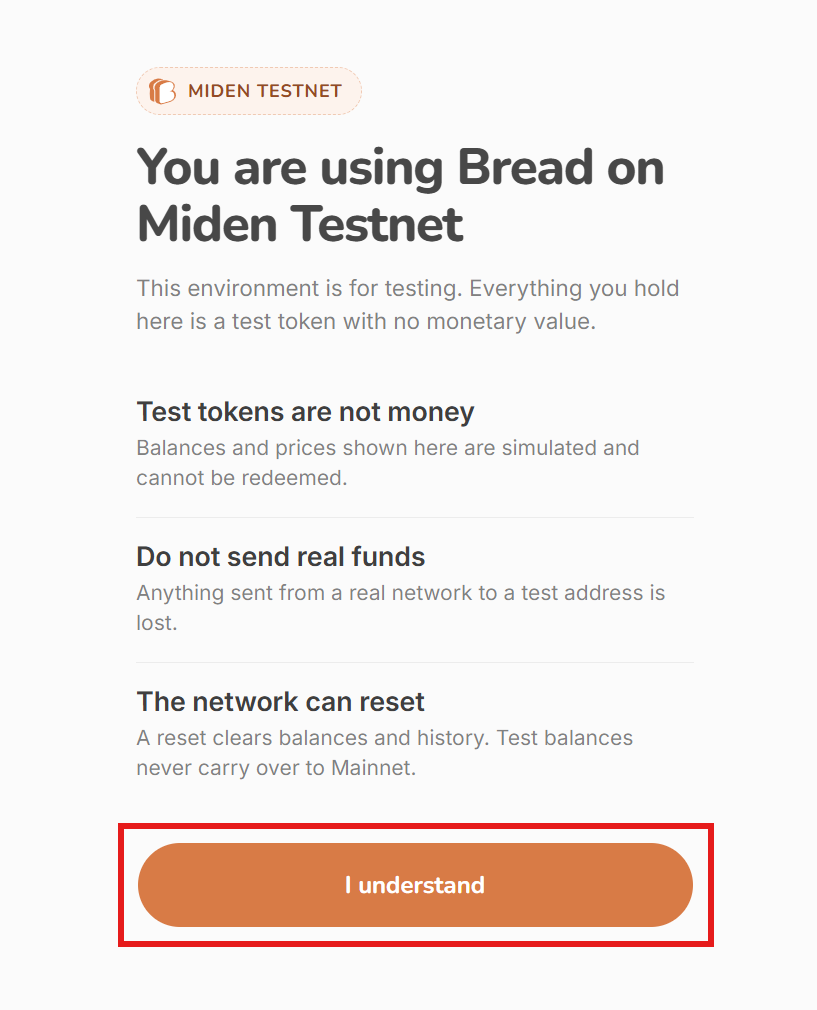
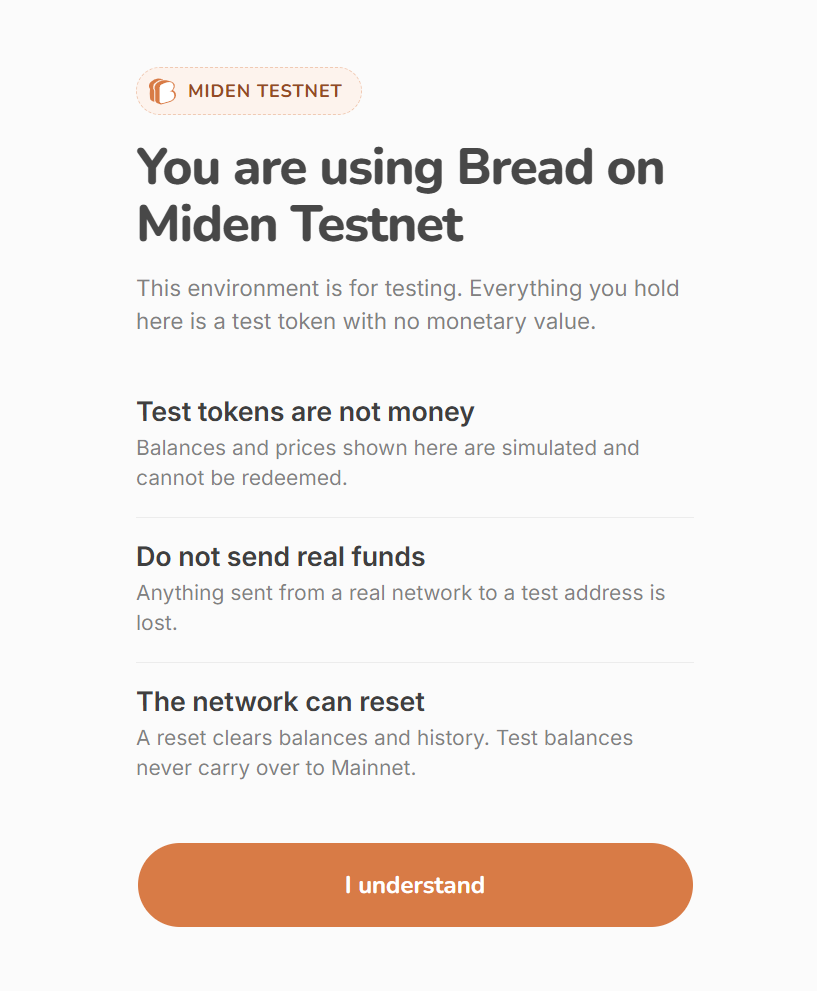
content: onboarding screenshots without red boxes
Ivan, 2026-09-17: red boxes are for the Chrome install screenshots only.
The boxes drawn on the five create-wallet captures were added without
asking and looked messy. Each file is now Ivan's original, with only the
empty space below its content cropped to meet the height rule; every
remaining pixel matches the file as delivered. Their alt text no longer
says a button is highlighted (approved by Ivan). The capture sheet
records the rule.

diff --git a/src/help-center/content.ts b/src/help-center/content.ts
@@ -161,11 +161,11 @@ export const SCREENSHOT_SIZES: Readonly<Record<string, ScreenshotSize>> = {
   'E01-install-web-store.png': [1783, 363],
   'E01a-install-add-extension.png': [870, 486, 'narrow'],
   'E02-install-pin.png': [616, 300, 'narrow'],
-  'E03-create-get-started.png': [820, 902, 'narrow'],
-  'E04-create-testnet-notice.png': [817, 1010, 'narrow'],
-  'E05-create-password.png': [824, 878, 'narrow'],
-  'E06-create-guardian.png': [819, 972, 'narrow'],
-  'E06a-create-wallet-ready.png': [821, 601, 'narrow']
+  'E03-create-get-started.png': [820, 903, 'narrow'],
+  'E04-create-testnet-notice.png': [817, 991, 'narrow'],
+  'E05-create-password.png': [824, 879, 'narrow'],
+  'E06-create-guardian.png': [819, 953, 'narrow'],
+  'E06a-create-wallet-ready.png': [821, 582, 'narrow']
 };
 
 export function registerImages(

diff --git a/tasks/screenshot-capture-sheet.md b/tasks/screenshot-capture-sheet.md
@@ -101,7 +101,8 @@ Read off the first three captures, so every later one matches without eyeballing
 - **Corners:** square, no radius
 - **Drawn last**, on the final image at its capture size, so it scales down with everything else to 3px
 
-One box per capture, unless a step genuinely has two controls to point at.
+**Only the Chrome install screenshots (E01, E01a, E02) get a box** — Ivan, 2026-09-17. Screenshots of
+Bread Wallet's own screens carry none. Nothing is drawn on a delivered capture without Ivan asking.
 
 ### If a capture misses the spec
 
@@ -179,31 +180,31 @@ The wallet's onboarding changed before this position was shot: there is no longe
 Guardian-or-Fully-private choice while creating a wallet, and the article's steps were rewritten to
 match (Ivan, 2026-09-17). E03 to E06 keep their numbers but now show the new screens, and E06a is a
 34th position for the last one. All five were taken at 150% and are tagged narrow, so they show at
-half their width: about three-quarters of life size, which Ivan accepted. Each carries
-a 6px box around the button its step names, added after capture; only the box's pixels differ from
-the file as delivered, and the empty space below the content was cropped.
+half their width: about three-quarters of life size, which Ivan accepted. They carry **no box**:
+boxes are for the Chrome install screenshots only (Ivan, 2026-09-17, after boxes were added here
+without asking and looked messy). Only the empty space below the content was cropped, to meet the
+height rule; every remaining pixel is the file as delivered.
 
 #### E03 · How do I create a Bread Wallet? · Ext · step 1
-- **Shows:** **Welcome to Bread!**, with **Get started** boxed.
-- **File:** `E03-create-get-started.png`, 820 × 902, narrow
+- **Shows:** **Welcome to Bread!**, with **Get started**.
+- **File:** `E03-create-get-started.png`, 820 × 903, narrow
 
 #### E04 · How do I create a Bread Wallet? · Ext · step 2
-- **Shows:** the Miden Testnet notice (*You are using Bread on Miden Testnet*), with **I understand**
-  boxed. The article calls it the Acknowledgment Screen page, by Ivan's choice. Retaken once to lose
+- **Shows:** the Miden Testnet notice (*You are using Bread on Miden Testnet*), with **I understand**. The article calls it the Acknowledgment Screen page, by Ivan's choice. Retaken once to lose
   the mouse pointer.
-- **File:** `E04-create-testnet-notice.png`, 817 × 1010, narrow
+- **File:** `E04-create-testnet-notice.png`, 817 × 991, narrow
 
 #### E05 · How do I create a Bread Wallet? · Ext · step 3
-- **Shows:** **Create password**, fields masked, with **Continue** boxed.
-- **File:** `E05-create-password.png`, 824 × 878, narrow
+- **Shows:** **Create password**, fields masked.
+- **File:** `E05-create-password.png`, 824 × 879, narrow
 
 #### E06 · How do I create a Bread Wallet? · Ext · step 4
-- **Shows:** **Choose your Guardian**, with **Continue** boxed.
-- **File:** `E06-create-guardian.png`, 819 × 972, narrow
+- **Shows:** **Choose your Guardian**, with the four operators.
+- **File:** `E06-create-guardian.png`, 819 × 953, narrow
 
 #### E06a · How do I create a Bread Wallet? · Ext · step 5
-- **Shows:** **Your Wallet is ready!**, with **Open wallet** boxed.
-- **File:** `E06a-create-wallet-ready.png`, 821 × 601, narrow
+- **Shows:** **Your Wallet is ready!**, with **Open wallet**.
+- **File:** `E06a-create-wallet-ready.png`, 821 × 582, narrow
 
 ### C. Fund the wallet
 

diff --git a/tasks/todo.md b/tasks/todo.md
@@ -736,11 +736,11 @@ was wrong). The mobile run happens later on a different build — record its ver
 
 - [x] E01 · How to install Bread Wallet · step 2 · Chrome Web Store listing with "Add to Chrome" — top of the listing, 1783 × 363 (2026-09-17)
 - [x] E02 · How to install Bread Wallet · step after 3 · Extensions menu and pin icon (toolbar optional) — 616 × 300 (2026-09-17)
-- [x] E03 · How do I create a Bread Wallet? · step 1 · **Welcome to Bread!** with **Get started** — 820 × 902 (2026-09-17)
-- [x] E04 · How do I create a Bread Wallet? · step 2 · Miden Testnet notice with **I understand** — 817 × 1010 (2026-09-17)
-- [x] E05 · How do I create a Bread Wallet? · step 3 · **Create password** — 824 × 878 (2026-09-17)
-- [x] E06 · How do I create a Bread Wallet? · step 4 · **Choose your Guardian** — 819 × 972 (2026-09-17)
-- [x] E06a · How do I create a Bread Wallet? · step 5 · **Your Wallet is ready!** with **Open wallet** — 821 × 601 (2026-09-17)
+- [x] E03 · How do I create a Bread Wallet? · step 1 · **Welcome to Bread!** with **Get started** — 820 × 903 (2026-09-17)
+- [x] E04 · How do I create a Bread Wallet? · step 2 · Miden Testnet notice with **I understand** — 817 × 991 (2026-09-17)
+- [x] E05 · How do I create a Bread Wallet? · step 3 · **Create password** — 824 × 879 (2026-09-17)
+- [x] E06 · How do I create a Bread Wallet? · step 4 · **Choose your Guardian** — 819 × 953 (2026-09-17)
+- [x] E06a · How do I create a Bread Wallet? · step 5 · **Your Wallet is ready!** with **Open wallet** — 821 × 582 (2026-09-17)
 - [ ] E07 · How to fund your Bread Wallet? · step 1 · Wallet homepage with "Faucet"
 - [ ] E08 · How to fund your Bread Wallet? · step 3–4 · Faucet page: address, amount, Private/Public
 - [ ] E09 · How to find a token contract address in Bread Wallet? · step 2 · Token Information section with copy icon

diff --git a/content-source/extension.md b/content-source/extension.md
@@ -37,23 +37,23 @@ When you install Bread Wallet, there are two options to choose between: **Get st
 
 1. To create a new wallet, select **Get started**.
 
-   ![Bread Wallet's Welcome to Bread! page, with the Get started button highlighted](E03-create-get-started.png)
+   ![Bread Wallet's Welcome to Bread! page, with the Get started button](E03-create-get-started.png)
 
 2. You will be directed to the Acknowledgment Screen page. Click **I understand**.
 
-   ![Bread Wallet's Miden Testnet notice, with the I understand button highlighted](E04-create-testnet-notice.png)
+   ![Bread Wallet's Miden Testnet notice, with the I understand button](E04-create-testnet-notice.png)
 
 3. On the create password page, create a strong password with a minimum of 8 characters and at least 1 number, and then click **Continue**.
 
-   ![Bread Wallet's Create password page, with the Continue button highlighted](E05-create-password.png)
+   ![Bread Wallet's Create password page, with the Continue button](E05-create-password.png)
 
 4. On the **Choose your Guardian** page, you can select a Guardian operator and then click **Continue**.
 
-   ![Bread Wallet's Choose your Guardian page, with the Continue button highlighted](E06-create-guardian.png)
+   ![Bread Wallet's Choose your Guardian page, with the Continue button](E06-create-guardian.png)
 
 5. Congrats, your wallet is ready! Click the **Open wallet** button; it will close the tab automatically and open the sidebar for you.
 
-   ![Bread Wallet's Your Wallet is ready screen, with the Open wallet button highlighted](E06a-create-wallet-ready.png)
+   ![Bread Wallet's Your Wallet is ready screen, with the Open wallet button](E06a-create-wallet-ready.png)
 
 ### How to fund your Bread Wallet?
 

diff --git a/src/help-center/content/02-how-do-i-create-a-bread-wallet.md b/src/help-center/content/02-how-do-i-create-a-bread-wallet.md
@@ -14,23 +14,23 @@ When you install Bread Wallet, there are two options to choose between: **Get st
 
 1. To create a new wallet, select **Get started**.
 
-   ![Bread Wallet's Welcome to Bread! page, with the Get started button highlighted](E03-create-get-started.png)
+   ![Bread Wallet's Welcome to Bread! page, with the Get started button](E03-create-get-started.png)
 
 2. You will be directed to the Acknowledgment Screen page. Click **I understand**.
 
-   ![Bread Wallet's Miden Testnet notice, with the I understand button highlighted](E04-create-testnet-notice.png)
+   ![Bread Wallet's Miden Testnet notice, with the I understand button](E04-create-testnet-notice.png)
 
 3. On the create password page, create a strong password with a minimum of 8 characters and at least 1 number, and then click **Continue**.
 
-   ![Bread Wallet's Create password page, with the Continue button highlighted](E05-create-password.png)
+   ![Bread Wallet's Create password page, with the Continue button](E05-create-password.png)
 
 4. On the **Choose your Guardian** page, you can select a Guardian operator and then click **Continue**.
 
-   ![Bread Wallet's Choose your Guardian page, with the Continue button highlighted](E06-create-guardian.png)
+   ![Bread Wallet's Choose your Guardian page, with the Continue button](E06-create-guardian.png)
 
 5. Congrats, your wallet is ready! Click the **Open wallet** button; it will close the tab automatically and open the sidebar for you.
 
-   ![Bread Wallet's Your Wallet is ready screen, with the Open wallet button highlighted](E06a-create-wallet-ready.png)
+   ![Bread Wallet's Your Wallet is ready screen, with the Open wallet button](E06a-create-wallet-ready.png)
 
 <!-- platform: mobile -->
 
